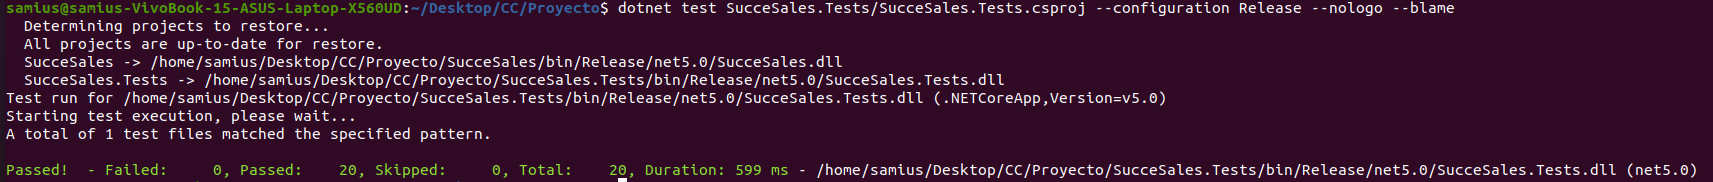
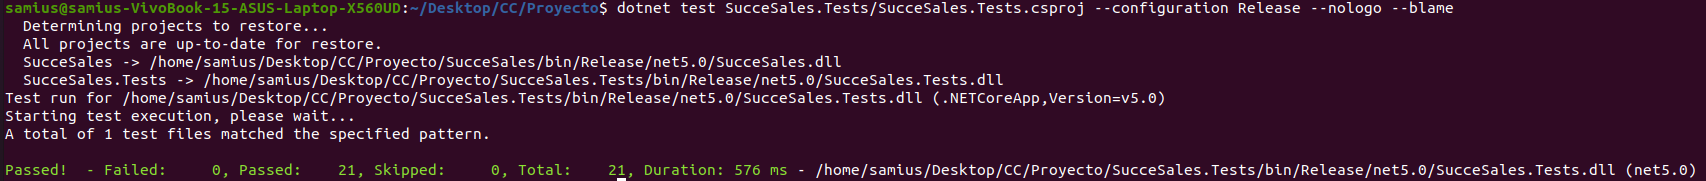
Added last documentation and fixed issues. closes #34

diff --git a/SucceSales.Tests/Presentation/Controllers/SalesControllerTests.cs b/SucceSales.Tests/Presentation/Controllers/SalesControllerTests.cs
@@ -7,7 +7,7 @@ namespace SucceSales.Tests.Presentation.Controllers
     using NFluent;
     using SucceSales.Domain.Entities;
     using SucceSales.Domain.Services;
-    using SucceSales.Presentation.Controllers;    
+    using SucceSales.Presentation.Controllers;
     using SucceSales.Presentation.DTOs;
     using System;
     using System.Collections.Generic;
@@ -18,7 +18,7 @@ namespace SucceSales.Tests.Presentation.Controllers
     {
         private readonly SalesController _salesController;
         private readonly Mock<ISaleDomainService> _saleDomainService = new();
-        private DateTime actualDate = DateTime.Now;
+        private readonly DateTime ActualDate = DateTime.Now;
 
         public SalesControllerTests()
         {
@@ -27,7 +27,7 @@ namespace SucceSales.Tests.Presentation.Controllers
         }
 
         [Fact]
-        public void TestPostSale_PostNewSale_ReturnsOk()
+        public void TestPostSale_PostValidSale_ReturnsOk()
         {
             var expectedSale = new SaleDTO(1, "Banana", 4.0m, 5.0m, DateTime.Now);
             
@@ -37,18 +37,28 @@ namespace SucceSales.Tests.Presentation.Controllers
         }
 
         [Fact]
+        public void TestPostSale_PostInvalidSale_ReturnsOk()
+        {
+            var expectedSale = new SaleDTO(1, string.Empty, 0m, 0m, DateTime.Now);
+            
+            var result = _salesController.PostSale(expectedSale);
+
+            Check.That(result.Result).IsInstanceOf<BadRequestObjectResult>();
+        }
+
+        [Fact]
         public void TestGetSale_SearchForFirstSale_ReturnsFirstSale()
         {
             _saleDomainService
                 .Setup(x => x.GetSaleById(It.IsAny<int>()))
-                .Returns(new SaleMessage(1, "Banana", 4.0m, 5.0m, actualDate));
+                .Returns(new SaleMessage(1, "Banana", 4.0m, 5.0m, ActualDate));
 
             var actionResult = _salesController.GetSale(1);
 
             Check.That(actionResult).IsNotEqualTo(null);
             var result = actionResult.Result as OkObjectResult;
             Check.That(result).IsNotEqualTo(null);
-            Check.That(result.Value).IsEqualTo(new SaleDTO(1, "Banana", 4.0m, 5.0m, actualDate));
+            Check.That(result.Value).IsEqualTo(new SaleDTO(1, "Banana", 4.0m, 5.0m, ActualDate));
         }
 
         [Fact]
@@ -65,23 +75,23 @@ namespace SucceSales.Tests.Presentation.Controllers
         {
             var saleList = new List<SaleMessage> 
                 {
-                    new (1, "Banana", 14.0m, 5.0m, actualDate),
-                    new (2, "Apple", 28.0m, 5.0m, actualDate),
-                    new (2, "Apple", 6.0m, 5.0m, actualDate.Date.AddDays(-1))
+                    new (1, "Banana", 14.0m, 5.0m, ActualDate),
+                    new (2, "Apple", 28.0m, 5.0m, ActualDate),
+                    new (2, "Apple", 6.0m, 5.0m, ActualDate.Date.AddDays(-1))
                 };
 
             _saleDomainService
                 .Setup(x => x.GenerateSalesReport(It.IsAny<DateTime>(), It.IsAny<DateTime>()))
                 .Returns(Task.FromResult<IEnumerable<SaleMessage>>(saleList));
 
-            var actionResult = _salesController.GetSalesReport(actualDate, actualDate);
+            var actionResult = _salesController.GetSalesReport(ActualDate, ActualDate);
 
             Check.That(actionResult).IsNotEqualTo(null);
             Check.That(actionResult.Result).IsEqualTo(new List<ReportDTO> 
                 {
-                    new (1, "Banana", 14.0m, actualDate),
-                    new (2, "Apple", 28.0m, actualDate),
-                    new (2, "Apple", 6.0m, actualDate.Date.AddDays(-1))
+                    new (1, "Banana", 14.0m, ActualDate),
+                    new (2, "Apple", 28.0m, ActualDate),
+                    new (2, "Apple", 6.0m, ActualDate.Date.AddDays(-1))
                 });
         }
 
@@ -90,8 +100,8 @@ namespace SucceSales.Tests.Presentation.Controllers
         {
             var saleList = new List<SaleMessage> 
                 {
-                    new (1, "Banana", 2.0m, 5.0m, actualDate),
-                    new (2, "Apple", 4.0m, 5.0m, actualDate)
+                    new (1, "Banana", 2.0m, 5.0m, ActualDate),
+                    new (2, "Apple", 4.0m, 5.0m, ActualDate)
                 };
 
             _saleDomainService
@@ -103,8 +113,8 @@ namespace SucceSales.Tests.Presentation.Controllers
             Check.That(actionResult).IsNotEqualTo(null);
             Check.That(actionResult.Result).IsEqualTo(new List<ReportDTO> 
                 {
-                    new (1, "Banana", 2.0m, actualDate),
-                    new (2, "Apple", 4.0m, actualDate)
+                    new (1, "Banana", 2.0m, ActualDate),
+                    new (2, "Apple", 4.0m, ActualDate)
                 });
         }
     }

diff --git a/SucceSales/Presentation/Controllers/SaleController.cs b/SucceSales/Presentation/Controllers/SaleController.cs
@@ -39,11 +39,16 @@
         [HttpPost]
         public async Task<ActionResult> PostSale(SaleDTO sale)
         {
-            SalesSyntacticValidator.ValidateSale(sale);
+            var errors = SalesSyntacticValidator.ValidateSale(sale);
 
-            await _salesDomainService.SaveAsync(new SaleMessage(sale.ProductId, sale.ProductName, sale.Quantity, sale.Price, sale.Date));
+            if(string.IsNullOrEmpty(errors))
+            {
+                await _salesDomainService.SaveAsync(new SaleMessage(sale.ProductId, sale.ProductName, sale.Quantity, sale.Price, sale.Date));
             
-            return Ok();
+                return Ok();
+            }
+
+            return BadRequest(errors);
         }
 
         [HttpGet]

diff --git a/docs/eop.md b/docs/eop.md
@@ -11,7 +11,7 @@ When we were designing the microservice, there was a brainstorming. Should we fo
 * KISS stands for **K**eep **It** **S**imple **S**tupid
 * TDD stands for **T**est-**D**riven **D**evelopment
 * BDD stands for **B**ehaviour-**D**riven **D**evelopment
-* DDD stands for **D**omain **D**riven **D**evelopment
+* DDD stands for **D**omain-**D**riven **D**evelopment
 
 It was crystal clear that we were going to use C# as our language. It is gaining popularity step by step and I have been developing with it for 4 years at the moment, so it was the perfect chance to try to take it a little bit further. Would it be possible to create a microservice with C#? My heart said yes but my mind was not sure. Searcing over the internet, there was this [detailed article](https://raw.githubusercontent.com/dotnet-architecture/eBooks/main/current/microservices/NET-Microservices-Architecture-for-Containerized-NET-Applications.pdf) that was focus on developing a microservice on C#. It was pretty interesting and it had tons of technical documentation, so it seemed like C# is a pretty solid choice for the porpouse of both the course goal and my personal goal. 
 
@@ -51,7 +51,7 @@ Following the above approach, the domain layer tests are created. In this case, 
 
 Finally, in the data access layer we define a test database to execute the integration tests. These are the most critical tests, as they check if everything is in place for our application to be run.
 
-We have a total of 20 tests, checking that each layer is working properly.
+We have a total of 21 tests, checking that each layer is working properly.
 ![Successful test execution](./images/Test-AllTestsExecuted.png)
 
 We could have created more tests like component tests, system tests and so, but they would have followed the same pattern as the created ones. Create the tests, adapt the code to pass it and fix whatever is broken.
@@ -71,11 +71,34 @@ Since the default one is pretty stable, which actually uses dependency injection
 
 We did not add any special log because our microservice its a small one. We could have add some after any critical operation, one log at the beggining of each call to store information as the correlation id of the call.
 
-Logging slow-code calls could us help find out where we can improve the performance of our microservice. 
-
+Logging slow or complex code calls could us help find out where we can improve the performance of our microservice, or what should be escalated to serve a better microservice to the client. 
 
 ## Final testing
-For the final testing, we are going to use 
+For the final testing, we are going to use [Postman](https://www.postman.com/) to check that the microservice is properly working. Postman allows us to do calls to the microservice in a pretty straight forward, easy way.
+
+The first step is to run a container with our image, so we can set the system with sales and try our shopping list functionality. We just run the following command to have a container working (add -d to run the container in background mode).
+
+	docker run -p 8080:8080 samius1/succesales:latest	
+
+During this tests we could check that out functionality is properly working. We first check that the microservice returns a 404 error if it can't find a sale.
+![Sale not found](./images/Test-SaleNotFound.png) 
+
+Then, we add a new sale and we try to retrieve it. Both operations success with a 200 response.
+![Add new sale](./images/Test-SaleAdded.png) 
+![New sale found](./images/Test-SaleFound.png) 
+
+After that, we try to add a sale that doesn't fulfill the validations, so we should get a BadRequest response.
+![Bad request response](./images/Test-ValidationNotPassed.png)
+As you can see, we also get the full error message.
+
+Then, we use a [bash script](./insertMultipleData.sh) we have created to set up an environment with a high number of sales, so we can test our last functionality of the microservice with multiple data.
+
+![Shopping list](./images/Test-ShoppingList.png)
+![Sale list](./images/Test-SaleList.png)
+
+The data may seem weird, but it is because we set the date to 8th of September without initial date, which is then set to 8 days before today, resulting in a total of 11 days. 505 sold strawberrys / 11 days = 45.90, as you can see in the picture.
+
+So finally, everything is working properly and we just have the MVP set in place to be deployed on cloud.
 
 ## Future steps
 There is some technical debt that should be address in the future to continue this project. Also, there are some improvements that would be a nice to have.
@@ -86,4 +109,5 @@ There is some technical debt that should be address in the future to continue th
 5. **Deploy to Kubernetes. Use of Helm, lint the chart, etc.** It would have been nice to deploy this microservice on the cloud to a Kubernetes cluster. It would have improved the perspective of this course, broaden the knowledge of the students in this matter.
 6. **Refactor the code.** Some functionality may be encapsulated to create more robust tests.
 7. **Add sonarqube to the project.** This will ensure us that our project is flawless from the code perspective. 
-8. **Add more testing.** It would be interesing to realize different techniques that were not used during the development of this project, as mutation testing for example. 
+8. **Add more testing.** It would be interesing to realize different techniques that were not used during the development of this project, as mutation testing for example.
+9. **Beautify the output.** We can truncate the decimals to show just 2 digits, but it was out of the scope, so we create a new user history to handle the data formatting.
